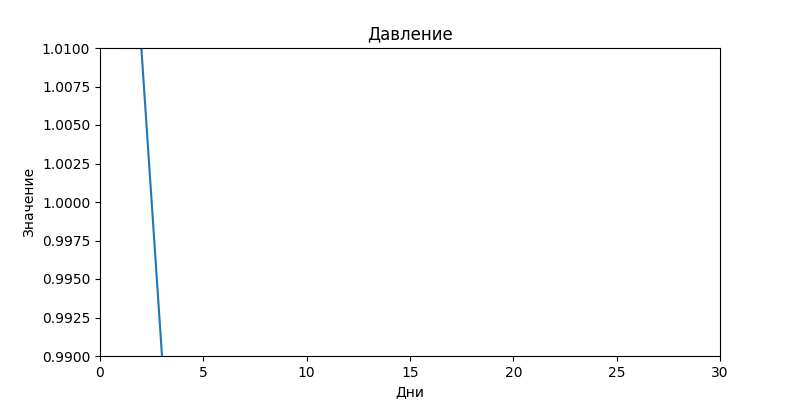
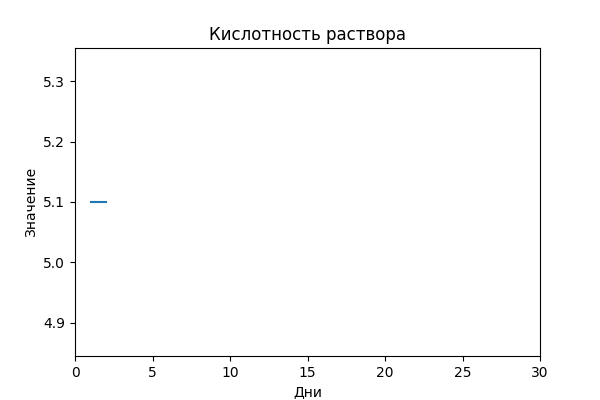
новая версия

diff --git a/project1 copy.py b/project1 copy.py
@@ -35,12 +35,30 @@ class SensorInfo:
         self.delta_max=delta_max
         self.si=si
 
+hardcoded_chart = {
+    'Влажность воздуха': {"currentIteration": 0, "values": [40,40.1, 40.3,40.5,40.4,40.3,40.8,42,43.5,45,39,38,38.5,39.1,41,41.6,43,45,46.5,48,48.3,47,48,50,52,55,57,57.5,60.2,61,62,61.7,60,3,59.9,59.3,57,56.5,55,55.1,55.2,57,55,53,52.4,50], }, 
+    'Влажность почвы': {"currentIteration": 0, "values": [89, 90.1, 90.2, 90.3, 90.3, 90.5, 91, 90.6, 90.9, 89.7, 89.9, 90.0, 91.1, 91.1, 91, 89.9, 89, 88.5, 88, 89, 91.8, 91.9, 92.0, 92.0, 92.3, 92, 92.3, 92.4, 92.5, 92.6, 92.7, 92.5, 92.7, 93.0, 93.0, 93.1, 93.2, 93.3, 93.4, 93.5, 93.6, 93.7, 93.8, 93.9, 94.0], },
+    'Температура воздуха': {"currentIteration": 0, "values": [22.0, 22.1, 22.2, 22.3, 22.4, 22.5, 22.6, 22.7, 22.8, 22.9, 23.0, 23.1, 23.2, 23.3, 23.4, 23.5, 23.6, 23.7, 23.8, 23.9, 24.0, 23.9, 23.8, 23.7, 23.6, 23.5, 23.4, 23.3, 23.2, 23.1, 23.0, 22.9, 22.8, 22.7, 22.6, 22.5, 22.4, 22.3, 22.2, 22.1, 22.0, 22.1, 22.2, 22.3, 22.4], }, 
+    'Температура раствора': {"currentIteration": 0, "values": [15.0, 15.1, 15.0, 14, 15, 15.1, 15.3, 15.7, 15.8, 15.9, 16.0, 16.4, 16.2, 16.3, 16.4, 16.9, 17.4, 17.8, 18.6, 19.1, 19.4, 20, 21.5, 21, 20.5, 20, 19.5, 19, 18.6, 18.9, 18.4, 18.3, 18.2, 18.1, 18.3, 18.5, 18.6, 18.3, 18.4, 18.2, 19.1, 19, 18.8, 18.7, 18.6], }, 
+    'Давление': {"currentIteration": 0, "values": [1,1,1,1,1,1,1,1,1,1,1,1.02,1.03,1.02,1.03,1.04,1.05,1.04,1.02,1.01,1,1,1,1,1,1,1.01,1.03,1.02,1,1,1,1,1,1,1,1,1,1,1,1,1,1,1,1,1,1,1,1,1,1,1,1,1,1,1], }, 
+    'Уровень раствора': {"currentIteration": 0, "values": [13.0, 13.1, 13.2, 13.3, 13.4, 13.5, 13.6, 13.7, 13.8, 13.9, 14.0, 14.1, 14.2, 14.3, 14.4, 14.5, 14.6, 14.7, 14.8, 14.9, 15.0, 14.9, 14.8, 14.7, 14.6, 14.5, 14.4, 14.3, 14.2, 14.1, 14.0, 13.9, 13.8, 13.7, 13.6, 13.5, 13.4, 13.3, 13.2, 13.1, 13.0, 13.1, 13.2, 13.3, 13.4], }, 
+    'Кислотность раствора': {"currentIteration": 0, "values": [5.1, 5.2, 5.3, 5.3, 5.5, 5.3, 5.2, 5.1, 5.0, 4.9, 5.1, 5.2, 5.1, 5.0, 4.9, 4.8, 5, 5.1, 5.2, 5.3, 5.4, 5.5, 5.3, 5.2, 5.3, 5.2, 5.1, 5.0, 5.0, 5.1, 5.2, 5.4, 5.3, 5.5, 5.6, 5.7, 5.9, 6, 5.5, 5.6, 5.7, 5.8, 5.9, 5.9, 5.8], }, 
+    'Содержание ионов': {"currentIteration": 0, "values": [900, 905, 910, 915, 910, 890, 900, 910, 940, 930, 950, 950, 960, 965, 970, 960, 940, 985, 990, 995, 1100, 1105, 1110, 1015, 1020, 1000, 1030, 1070, 1040, 1050, 1050, 1040, 1000, 995, 1010, 1075, 1080, 1085, 1090, 1095, 1100, 905, 910, 915, 920], }, 
+    # 'Освещенность': {"currentIteration": 0, "values": [1,2,3,4,5,6,6], },
+}
+
 
 def ran(min, max,t):
     res = min + (((sin(t/150)+1)/2) * (max - min))
     result = round(random.uniform(res*0.95, res*1.05),2) 
     return result
 
+def get_hardcoded_chart(key):
+    dict = hardcoded_chart[key]
+    current = dict["currentIteration"]
+    result = dict["values"][current]
+    dict["currentIteration"]+=1
+    return result
 
 def update_items(table,sensors):
     table.delete(*table.get_children())
@@ -180,14 +198,14 @@ async def update_val():
     t = 0
     while True:
         sensors = [
-            SensorInfo('Влажность воздуха', ran(new_delta['Влажность воздуха'][0],new_delta['Влажность воздуха'][1],t), new_delta['Влажность воздуха'][0],new_delta['Влажность воздуха'][1],',%'), 
-            SensorInfo('Влажность почвы', ran(new_delta['Влажность почвы'][0],new_delta['Влажность почвы'][1],t), new_delta['Влажность почвы'][0],new_delta['Влажность почвы'][1],',%'), 
-            SensorInfo('Температура воздуха', ran(new_delta['Температура воздуха'][0],new_delta['Температура воздуха'][1],t), new_delta['Температура воздуха'][0],new_delta['Температура воздуха'][1],',℃'), 
-            SensorInfo('Температура раствора', ran(new_delta['Температура раствора'][0],new_delta['Температура раствора'][1],t), new_delta['Температура раствора'][0],new_delta['Температура раствора'][1],',℃'), 
-            SensorInfo('Давление', ran(new_delta['Давление'][0],new_delta['Давление'][1],t), new_delta['Давление'][0],new_delta['Давление'][1],',атм'), 
-            SensorInfo('Уровень раствора', ran(new_delta['Уровень раствора'][0],new_delta['Уровень раствора'][1],t), new_delta['Уровень раствора'][0],new_delta['Уровень раствора'][1],',см'), 
-            SensorInfo('Кислотность раствора', ran(new_delta['Кислотность раствора'][0],new_delta['Кислотность раствора'][1],t), new_delta['Кислотность раствора'][0],new_delta['Кислотность раствора'][1],',pH'), 
-            SensorInfo('Содержание ионов', ran(new_delta['Содержание ионов'][0],new_delta['Содержание ионов'][1],t), new_delta['Содержание ионов'][0],new_delta['Содержание ионов'][1],',шт'), 
+            SensorInfo('Влажность воздуха', get_hardcoded_chart('Влажность воздуха'), new_delta['Влажность воздуха'][0],new_delta['Влажность воздуха'][1],',%'), 
+            SensorInfo('Влажность почвы', get_hardcoded_chart('Влажность почвы'), new_delta['Влажность почвы'][0],new_delta['Влажность почвы'][1],',%'), 
+            SensorInfo('Температура воздуха', get_hardcoded_chart('Температура воздуха'), new_delta['Температура воздуха'][0],new_delta['Температура воздуха'][1],',℃'), 
+            SensorInfo('Температура раствора', get_hardcoded_chart('Температура раствора'), new_delta['Температура раствора'][0],new_delta['Температура раствора'][1],',℃'), 
+            SensorInfo('Давление', get_hardcoded_chart('Давление'), new_delta['Давление'][0],new_delta['Давление'][1],',атм'), 
+            SensorInfo('Уровень раствора', get_hardcoded_chart('Уровень раствора'), new_delta['Уровень раствора'][0],new_delta['Уровень раствора'][1],',см'), 
+            SensorInfo('Кислотность раствора', get_hardcoded_chart('Кислотность раствора'), new_delta['Кислотность раствора'][0],new_delta['Кислотность раствора'][1],',pH'), 
+            SensorInfo('Содержание ионов', get_hardcoded_chart('Содержание ионов'), new_delta['Содержание ионов'][0],new_delta['Содержание ионов'][1],',шт'), 
             SensorInfo('Освещенность', ran(new_delta['Освещенность'][0],new_delta['Освещенность'][1],t), new_delta['Освещенность'][0],new_delta['Освещенность'][1],',лк'),
         ]
         update_items(table,sensors)

diff --git a/gpt.py b/gpt.py
@@ -25,7 +25,10 @@ def perform_request_chatGPT(data_base,entry_plan,entry_fact):
       - Содержание ионов = {data_base['Содержание ионов']}
       - Освещенность = {data_base['Освещенность']}
       С учетом того, что ни один датчик не показал отклонений от нормы, а вес урожая получился с отклонением, проанализируй ситуацию и дай рекомендации ученому-лаборанту о том,
-      что необходимо сделать, чтобы фактический вес урожая был равен планируемому. 
+      что необходимо сделать, чтобы фактический вес урожая был равен планируемому.
+      Рекомендации следует давать тезисно в данном формате:
+      Возможная причина отклонений:
+      Рекомендации к устранению причины:
       '''}
   ]
   )
